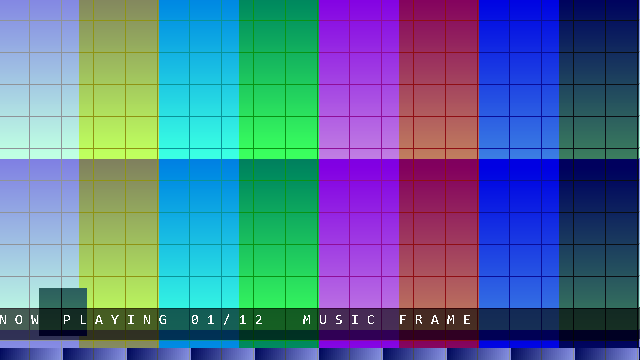
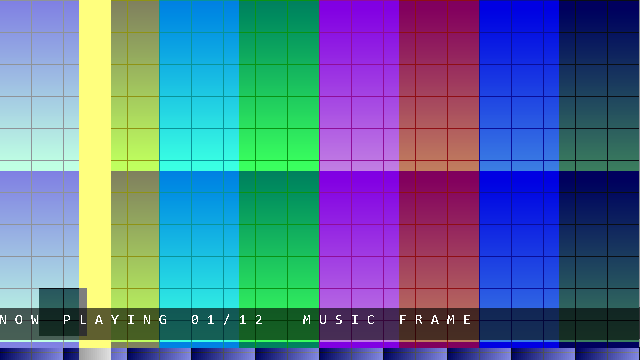
fix: 输出级时序收敛（75MHz -16.18ns -> +0.12ns）
- transition 拆成两级流水：第一级比较/打拍，第二级混合；split_x 预计算
- osd_menu 字模地址先打一拍，切断"区域比较 -> BRAM 地址"长链
- 视频延时链 2 拍 -> 4 拍，OSD 输出补 1 拍，两边在 alpha_blend 对齐
- 亮度/对比度/转场/字幕截图与改动前逐像素一致（0 diff）
- TD 实测：LUT 3467 (17.7%)、REG 1809 (9.2%)、BRAM 10/64、DSP 7/29
- 375MHz 通过，75MHz SWNS +0.120ns，hold 全正

diff --git a/docs/P6_OSD菜单_实现说明.md b/docs/P6_OSD菜单_实现说明.md
@@ -32,14 +32,15 @@
 
 ```
 color_bar_hd (A) ─┐
-                  ├─> transition ─> param_apply ─> 打 2 拍 ─┐
+                  ├─> transition(2级) ─> param_apply ─> 打 2 拍 ─┐
 test_pattern_b(B) ┘                                        ├─> alpha_blend ─> rgb_out ─> rgb2axis ─> HDMI
 osd_menu (遮罩/面板/字幕) ─────────────────────────────────┘
      ▲
 key_ctrl ── 4 键事件
 ```
 
-- 菜单输出比输入 `x/y` 晚 **2 拍**，因此视频、`hs/vs/de/x/y` 必须一起延 2 拍。
+- 菜单输出比输入 `x/y` 晚 **3 拍**，视频通路（转场 2 拍 + 输出 2 拍）共晚 **4 拍**，
+  因此 `osd` 输出要再补 1 拍、视频侧 `hs/vs/de/x/y` 延 4 拍，两边在 `alpha_blend` 汇合。
 - `cfg_latch` 把菜单参数与数据面隔离：按键随时可改，**只在帧首 `cfg_commit` 生效**，避免一帧内上下半屏参数不同。
 - 坐标使用**活动区坐标**（`x/y` 已减去 HSA+HBP / VSA+VBP），面板位置就是屏幕上看到的位置。
 
@@ -165,22 +166,37 @@ out  = clamp( (in-128)*gain>>7 + 128 + off )
 
 ---
 
-## 8. 资源（估算，待 TD 实测校准）
+## 8. 资源（TD 实测，EG4S20BG256）
 
-| 模块 | LUT | FF | ERAM | DSP |
-| --- | --- | --- | --- | --- |
-| font_rom | 40 | 0 | 2×9Kb | 0 |
-| osd_menu | 480 | 280 | 0 | 0 |
-| alpha_blend | 150 | 0 | 0 | 0 |
-| transition | 200 | 20 | 0 | 0 |
-| param_apply | 120 | 0 | 0 | 0 |
-| cfg_latch | 40 | 30 | 0 | 0 |
-| key_ctrl | 90 | 100 | 0 | 0 |
-| **合计** | **≈1,120** | **≈430** | **2 块** | **0** |
+| 资源 | 用量 | 占比 |
+| --- | --- | --- |
+| LUT | 3,467 | 17.7% |
+| REG | 1,809 | 9.2% |
+| BRAM9K | 10 | 15.6%（64 块） |
+| DSP | 7 | 24%（29 个） |
+| PLL | 1 | 25% |
+| IO | 25 | 13% |
 
-> 若 TD 没把 `font_rom` 推成 ERAM（变成分布式 ROM 会吃掉 ~1000 LUT），改用 IP Generator 生成 ROM 并加载同一份 `.mif`。
+> 含 HDMI 1.4b 核与 PLL。纯输出级（菜单/字模/转场/亮度/按键）约 1.1k LUT，
+> 字模 ROM 被推断成 BRAM（10 块 9K 里含 HDMI 核自用的部分）。
 
 ---
+
+## 8.1 TD 时序：从 -16.18ns 到 +0.12ns
+
+第一版综合后 375MHz 通过（+0.039ns），但 75MHz 像素域 **-16.182ns**，
+最差路径是 `hcnt → 坐标减法 → 转场 → 亮度/对比度 → vd1`，23 级逻辑、29.2ns。
+
+两次拆分：
+
+| 版本 | 改动 | 75MHz SWNS | 375MHz |
+| --- | --- | --- | --- |
+| v1 | 转场与 param 全组合 | -16.182ns | +0.039ns |
+| v2 | 转场输出打 1 拍 | -7.861ns | 通过 |
+| v3 | 转场拆 2 级（先比较+打拍，再混合）；字模地址先打 1 拍 | **+0.120ns** | 通过 |
+
+最终：`SWNS +0.120ns / HWNS +0.010ns`，时序闭合但余量很薄（0.12ns）。
+若后续加逻辑，优先再给 `param_apply` 的乘法加一级流水。
 
 ## 9. 已知限制
 

diff --git a/docs/上板测试指南.md b/docs/上板测试指南.md
@@ -36,12 +36,15 @@ sim\lint_board.bat
 
 1. **综合**：Run Synthesis（`syn_1`）。
 2. **布局布线**：Run Physical Design（`phy_1`）。
-3. 看两个报告：
-   - Area：LUT 应在 1.5k 以内（本设计 ≈1.1k + HDMI 核）；
-   - Timing：`clk_ser`（375MHz）的 Setup/Hold slack 必须 ≥ 0。**这是 720p 能否成立的关键**。
+3. 看两个报告（本机已跑过一次，可对照）：
+   - Area：**LUT 3,467 (17.7%)、REG 1,809 (9.2%)、BRAM 10/64、DSP 7/29**；
+   - Timing：**75MHz SWNS +0.120ns、375MHz 通过、hold 全正**，时序闭合。
+     余量只有 0.12ns，若再加逻辑务必重跑时序。
 4. Generate Bitstream → Download。
 
 > 首次综合若报 `font_rom` 推断失败，把它换成 IP Generator 的 ROM（同一份初始化数据），其余不动。
+>
+> 当前已生成的比特流：`prj/yuanshen_hdmi_Runs/phy_1/yuanshen_hdmi.bit`，可直接下载。
 
 ---
 
